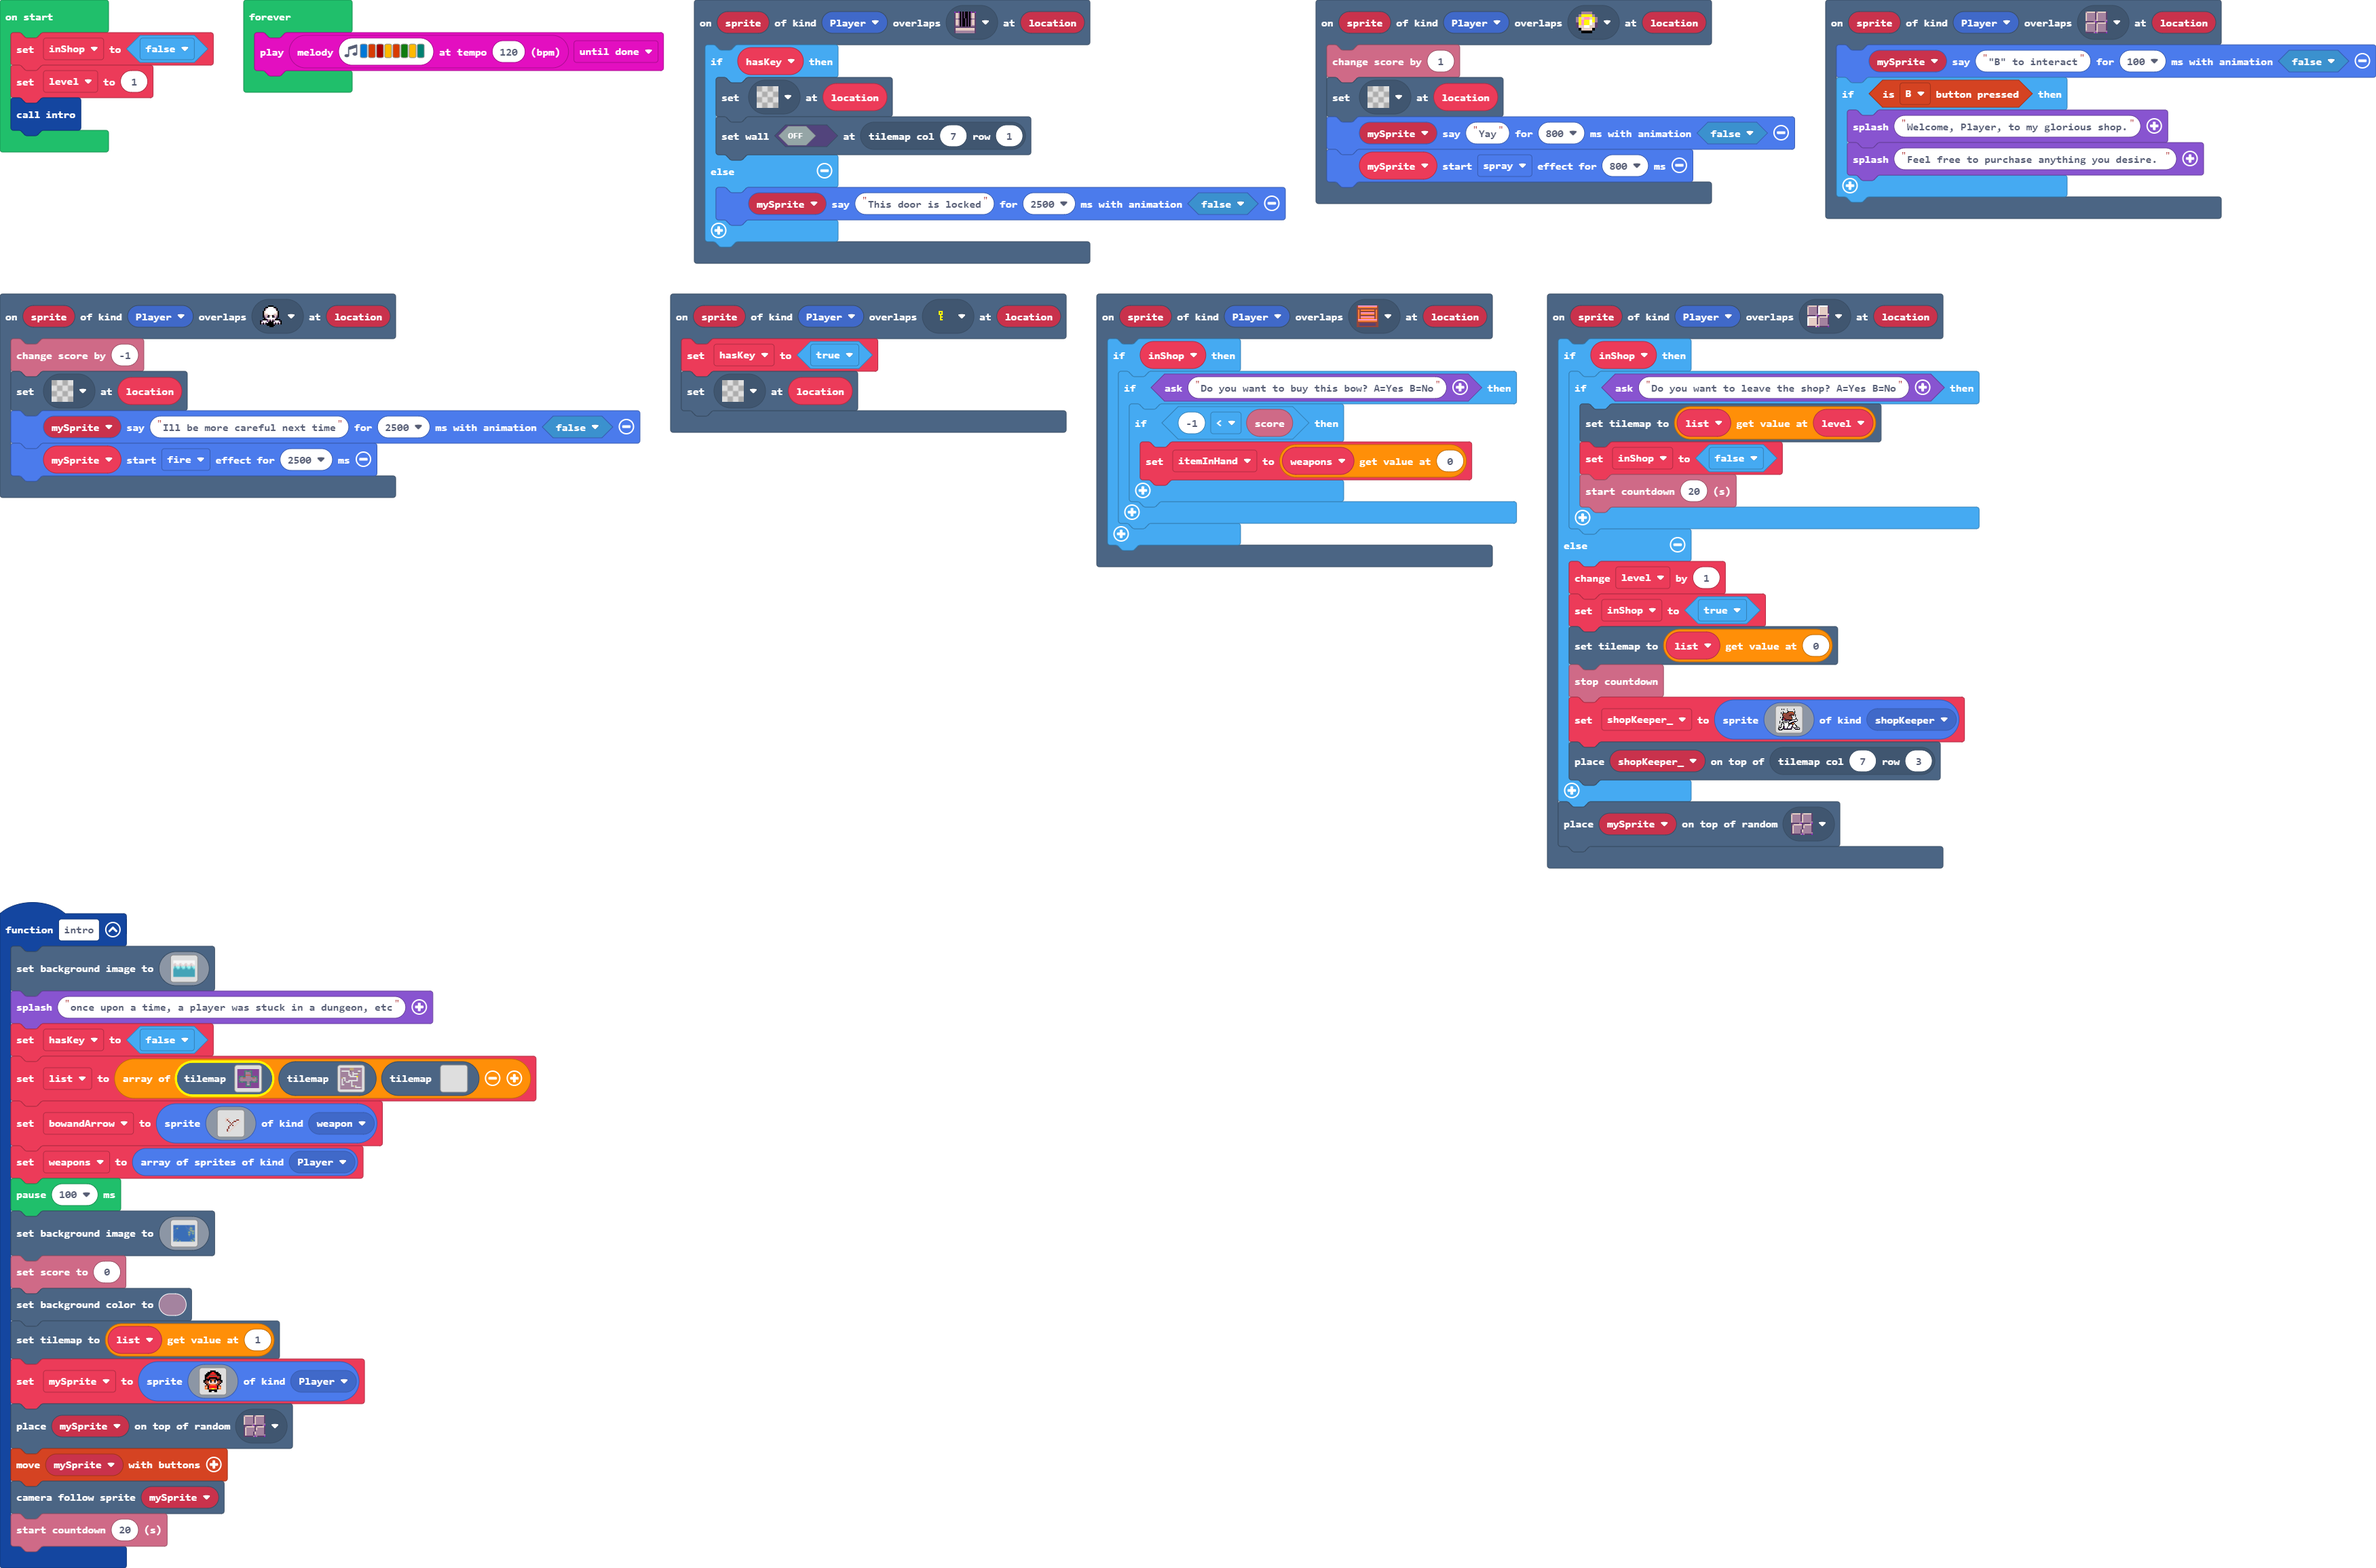
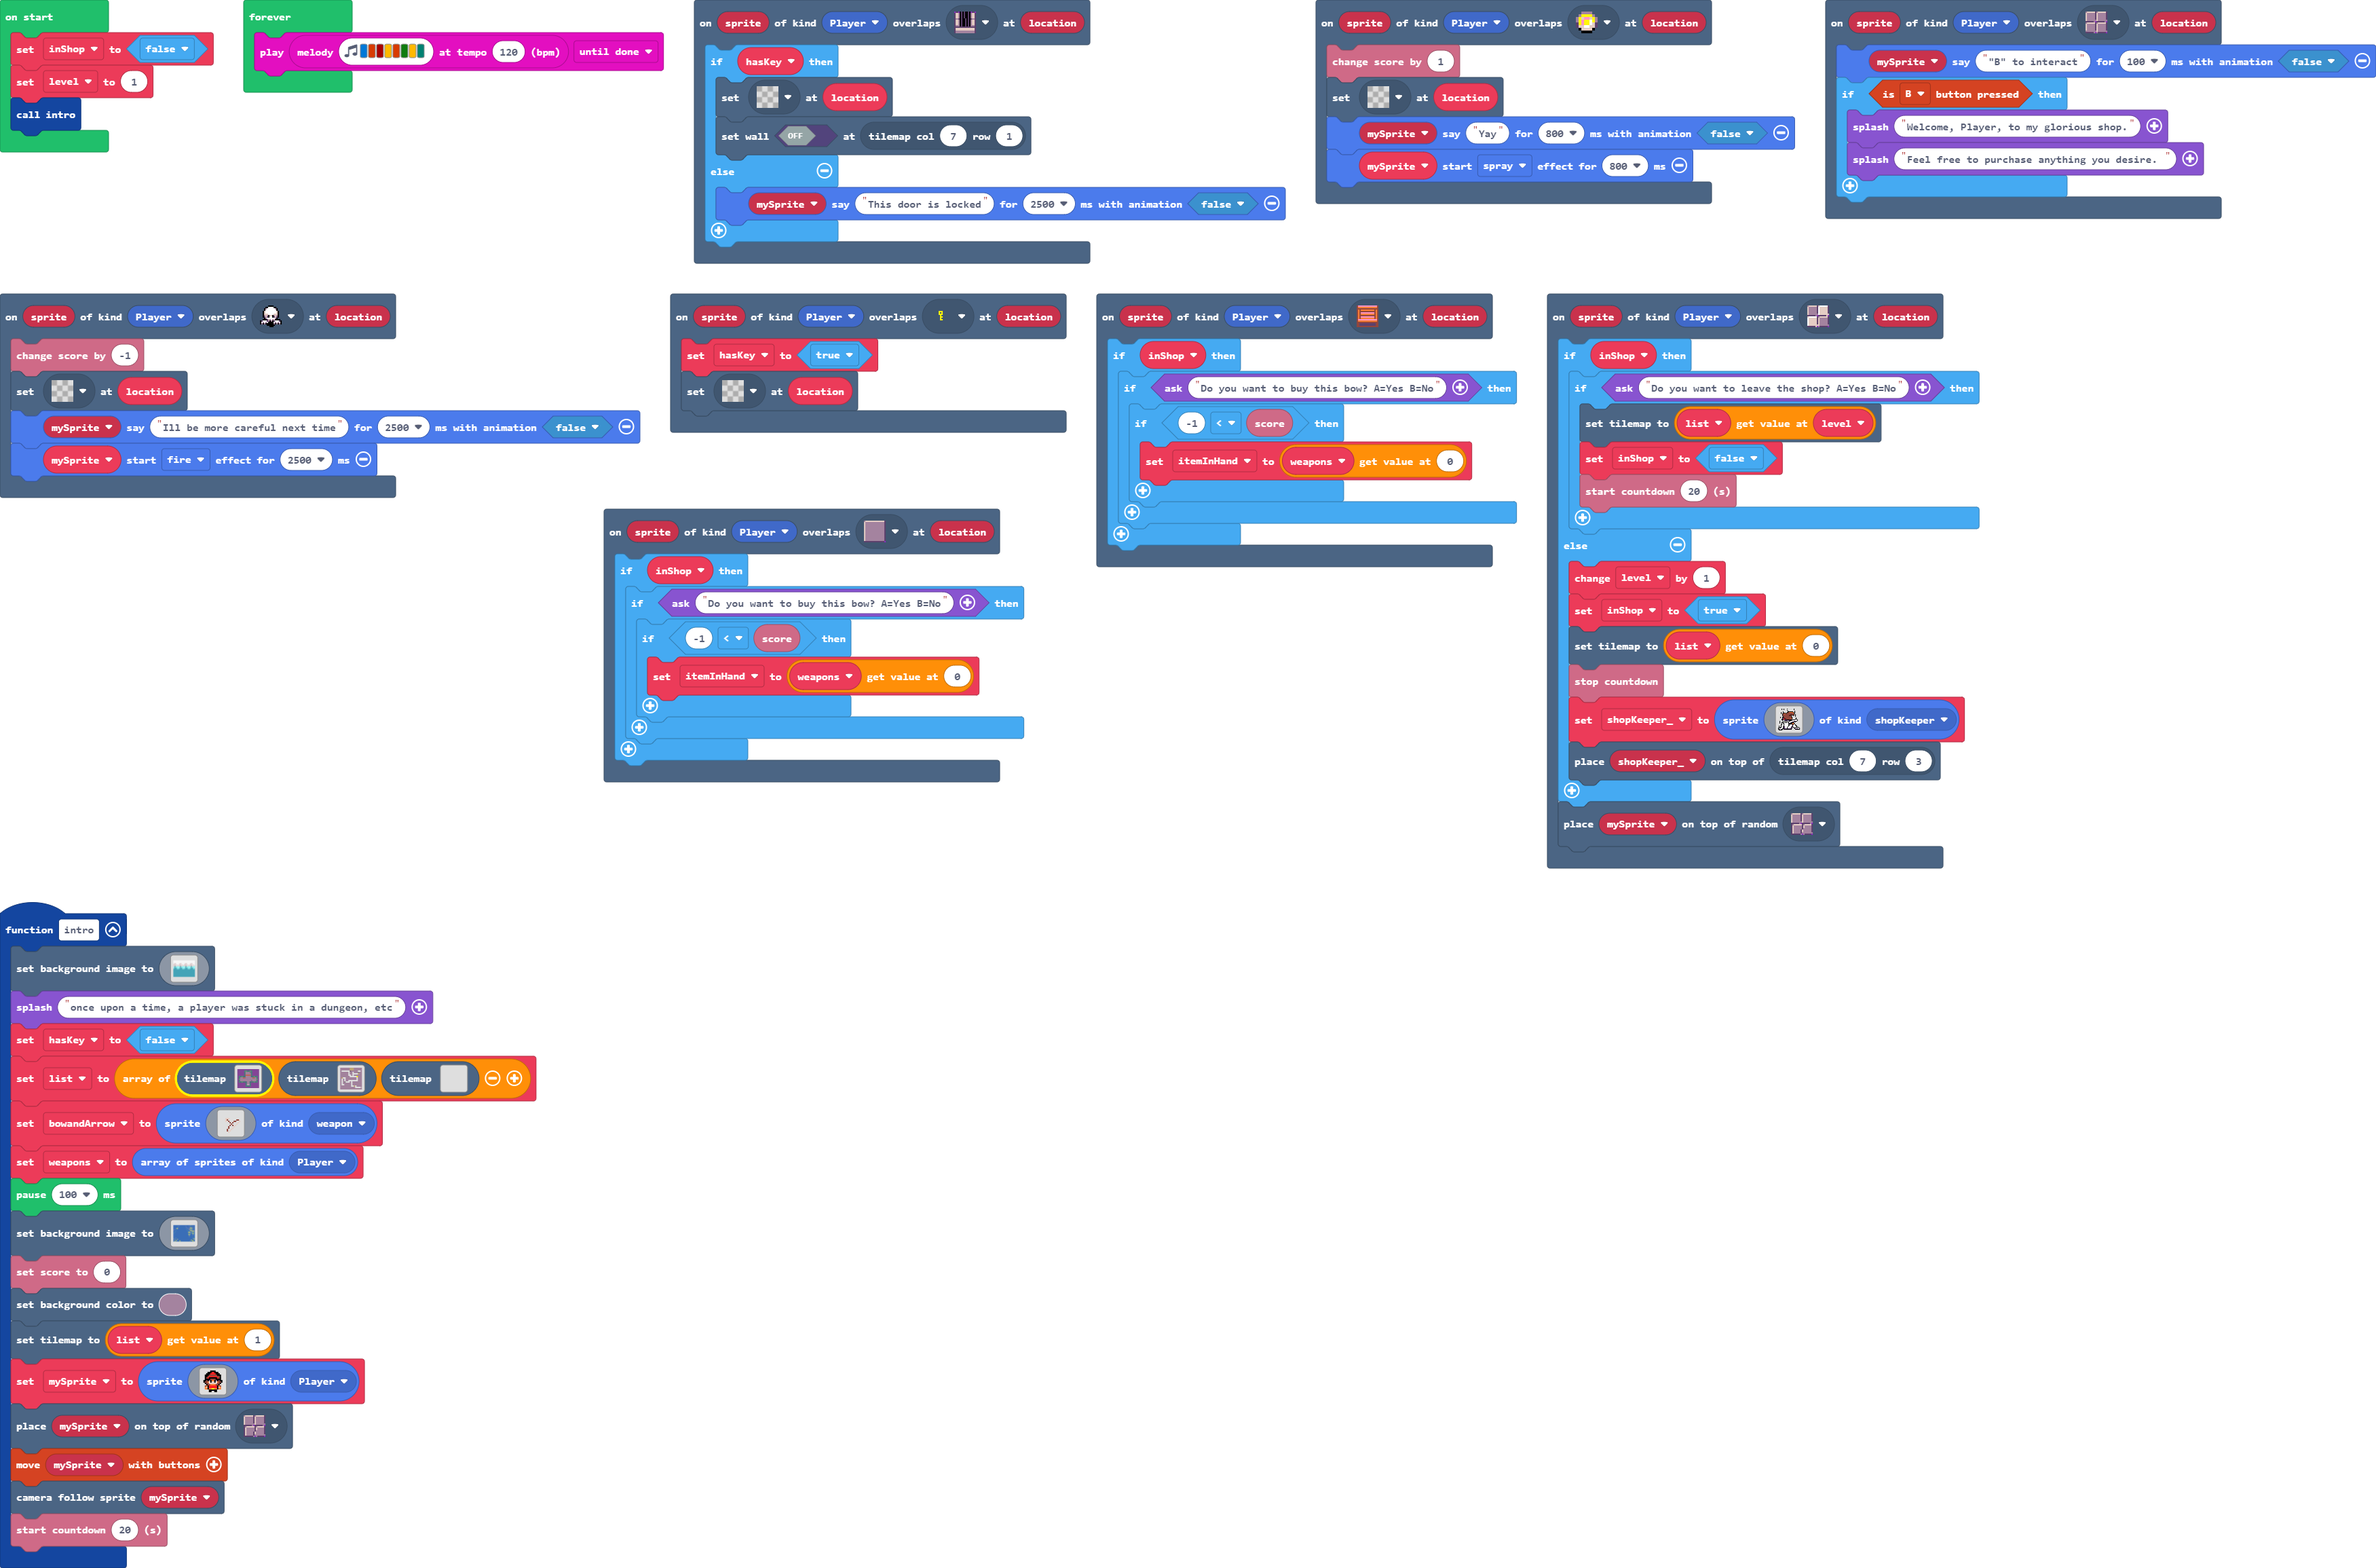
Update main.blocks, main.ts

Changed region(s): [[0.2491, 0.3117, 0.4359, 0.4987]]

diff --git a/main.ts b/main.ts
@@ -336,6 +336,15 @@ scene.onOverlapTile(SpriteKind.Player, assets.tile`myTile2`, function (sprite, l
         game.splash("Feel free to purchase anything you desire. ")
     }
 })
+scene.onOverlapTile(SpriteKind.Player, sprites.dungeon.floorDark2, function (sprite, location) {
+    if (inShop) {
+        if (game.ask("Do you want to buy this bow? A=Yes B=No")) {
+            if (-1 < info.score()) {
+                itemInHand = weapons[0]
+            }
+        }
+    }
+})
 scene.onOverlapTile(SpriteKind.Player, sprites.dungeon.floorMixed, function (sprite, location) {
     if (inShop) {
         if (game.ask("Do you want to leave the shop? A=Yes B=No")) {
